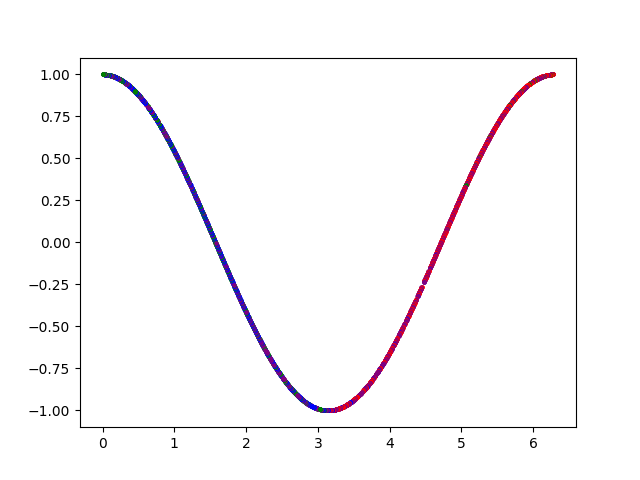
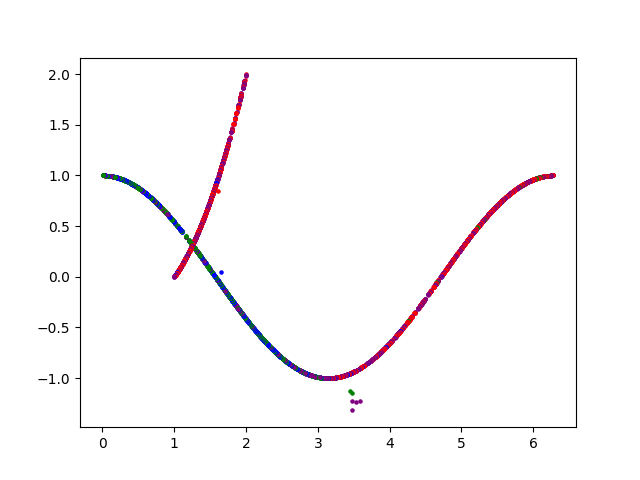
quickcommit

diff --git a/Src/DataStruct/DataStructures.py b/Src/DataStruct/DataStructures.py
@@ -1612,9 +1612,6 @@ class SplitTree:
                             if len(self.leafs[i].touchstack) == 0:
                                 self.stackid[i] = 0
                                 self.stack[i] = []
-                            elif len(self.leafs[i].touchstack) == 1:
-                                #We have a lowest level, where only one side is touching. we will test each point in the level with other touches
-                                self.leafs[i].purge(3,[i],threshDistance=threshDistance)#purge level 3 is given the intercept, and the points far will be purged. 
                         elif abs(inter[0] - indata[1][0][0]) > threshDistance and abs(inter[0] - indata[1][1][0]) > threshDistance:
                             if abs(inter[1] - indata[1][0][1]) > threshDistance and abs(inter[1] - indata[1][1][1]) > threshDistance:
                                 if len(self.leafs[i].touchstack) == 0:
@@ -1623,8 +1620,6 @@ class SplitTree:
                 elif sid == 3:#Go Further
                     self.leafs[i].purge(2,indata,threshDistance=threshDistance)
                 i += 1
-        if incode == 3:
-            print()
             #We are now given permission to bruteforce delete
     def getTouch(self,threshDistance,indepth):
         #get touch is implied that there has already been a stack build

diff --git a/Test/quadtest.py b/Test/quadtest.py
@@ -7,27 +7,36 @@ sys.path.insert(0,source + r'/DataStruct')
 from DataStructures import SplitTree
 import numpy as np
 import random as rand
-
+import matplotlib.pyplot as plt
 
 xdat = []
 ydat = []
 rdat = []
 indat = []
 
-for i in range(3000):
+for i in range(4000):
     #Creates 300 pts along sinwave
-    xdat.append((i*2*np.pi)/3000)
-    ydat.append(np.cos(xdat[i]))
-    rdat.append(i*0.01)
+    if i < 3000:
+        xdat.append((i*2*np.pi)/3000)
+        ydat.append(np.cos(xdat[i]))
+        rdat.append(i*0.01)
+    else:
+        xdat.append(((i-3000)/1000) + 1 )
+        ydat.append(xdat[i]*((i-3000)/1000))
+        rdat.append(i*0.01)
 
     #Adds Slight Randomness
-    #if i % 10 == 0:
-        #xdat[i] += rand.uniform(-0.5,0.5)
-        #ydat[i] += rand.uniform(-0.5,0.5)
-    #rdat[i] *= rand.uniform(-0.05,0.05)
+    if i % 10 == 0:
+        xdat[i] += rand.uniform(-0.5,0.5) 
+        ydat[i] += rand.uniform(-0.5,0.5)     
+        #rdat[i] *= rand.uniform(-0.05,0.05)
     indat.append([xdat[i],ydat[i]])
 
 a = SplitTree(indat,inrad = rdat)
+plt.scatter(xdat,ydat,s=5)
+save = os.path.split(os.path.dirname(os.path.abspath(__file__)))[0] + r'/Plot/prequad.png'
+plt.savefig(save)
+plt.clf()
 a.purge(threshDistance = (2*np.pi/3000))
 #a.Draw()
 
